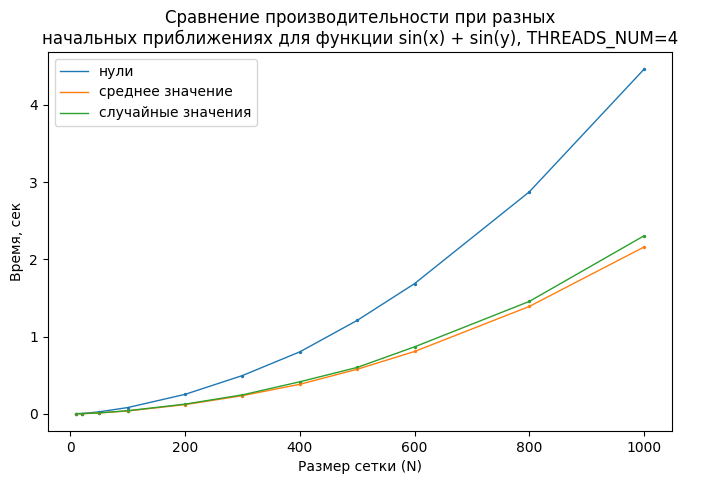
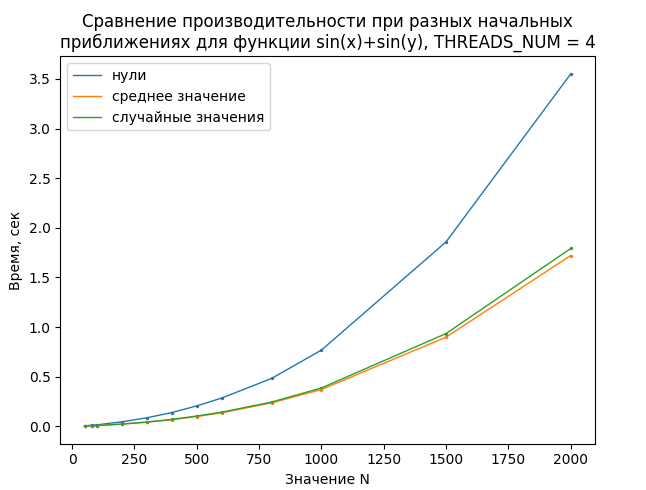
Refactor report

diff --git a/work1/README.md b/work1/README.md
@@ -5,23 +5,21 @@
 * Процессор - 11th Gen Intel® Core™ i5-11500 @ 2.70GHz (6 ядер);
 * Оперативная память - 16ГБ;
 * Операционная система - Ubuntu 22.04.4 LTS;
-* Версия gcc - 11.4.0.
+* Версия gcc - 11.4.0;
+* Версия OpenMP - 4.5.
 
 Под временем работы алгоритма понимается время работы метода `calculate_approximation()`, таким образом не учитывается
-время, которое тратися на выделение памяти и инициализацию функции начальным приближением.
+время, которое тратися на выделение памяти и инициализацию функции начальным приближением. Все измерения проводились с установленным флагом оптимизации -O2.
 
-Для вычисления ошибки аппроксимации использовалась формула:
-$$e=\dfrac 1 {N^2} \displaystyle\sum_{i = 1}^N\sum_{j = 1}^N \dfrac {\lvert u(i,j)- g(ih, jh)\rvert} {\lvert g(ih,jh)
-\rvert}, $$    
-где $N$ - количество неграничных узлов в сетке, $h =\frac {1} {N+1}$, $g$ - функция, которую мы приближаем, $u(i,j)$ -
-значение получившейся функции в узле $(i,j)$. Для визуализации результатов в виде графиков использовался python версии
+Для визуализации результатов в виде графиков использовался python версии
 3.10.12 и библиотеки, описанные
 в [requirements.txt](https://github.com/aartdem/comp-math/blob/main/work1/requirements.txt)
 
+Для оценки полученных значений времени работы использовался доверительный интервал 95%.
 ## Начальное приближение
 
-Чтобы понять, какое выбрать начальное приближение, было проведено несколько измерений. Все измерения проводились для
-$eps=10^{-3}$, с размером блока = 32 и на четрырех потоках. Основная цель - понять, зависит ли время работы алгоритма от
+Все измерения проводились для $eps=10^{-3}$, с размером блока = 32 и на четрырех потоках.
+Основной целью было понять, зависит ли время работы алгоритма от
 начального приближения, и если зависит, то как оптимально подобрать начальное приближение для данной функции.
 Исследовалось 3 способа инициализации начального приближения для каждой клетки:
 
@@ -31,15 +29,61 @@ $eps=10^{-3}$, с размером блока = 32 и на четрырех по
 
 где $G$ - множество значений функции в граничных точках.
 
-Итак, было проведено четыре эксперимента, результаты отражены на графиках:
+Для каждого эксперимента было проведено 20 запусков, были рассмотрены 4 разные функции.
+Функции были подобраны так, чтобы у них различались области значений и скорости роста на множестве $[0;1]^2$.
+Результаты отражены на таблицах и графиках (точка на графике является средним значением по всем запускам):
 
+
+<details>
+  <summary> $sin(x) + sin(y)$ </summary>
 ![](https://github.com/aartdem/comp-math/blob/main/work1/imgs/init0.png)
+
+|                    |        50        |        80        |       100        |       200        |       300        |       400        |       500        |       600        |       800        |       1000       |       1500       |       2000       |
+|--------------------|------------------|------------------|------------------|------------------|------------------|------------------|------------------|------------------|------------------|------------------|------------------|------------------|
+|        нули        | $0.004\pm 0.004$ | $0.010\pm 0.010$ | $0.014\pm 0.014$ | $0.044\pm 0.045$ | $0.085\pm 0.086$ | $0.137\pm 0.138$ | $0.205\pm 0.206$ | $0.283\pm 0.285$ | $0.481\pm 0.482$ | $0.767\pm 0.768$ | $1.847\pm 1.869$ | $3.544\pm 3.557$ |
+|  среднее значение  | $0.002\pm 0.002$ | $0.004\pm 0.004$ | $0.006\pm 0.006$ | $0.021\pm 0.021$ | $0.040\pm 0.041$ | $0.065\pm 0.065$ | $0.097\pm 0.098$ | $0.135\pm 0.136$ | $0.230\pm 0.240$ | $0.370\pm 0.371$ | $0.896\pm 0.899$ | $1.719\pm 1.723$ |
+| случайные значения | $0.002\pm 0.002$ | $0.004\pm 0.005$ | $0.007\pm 0.007$ | $0.022\pm 0.022$ | $0.042\pm 0.043$ | $0.068\pm 0.070$ | $0.102\pm 0.104$ | $0.140\pm 0.143$ | $0.241\pm 0.246$ | $0.383\pm 0.389$ | $0.924\pm 0.944$ | $1.778\pm 1.805$ |
+
+</details>
+
+<details>
+  <summary> $x^6+y^6$ </summary>
 ![](https://github.com/aartdem/comp-math/blob/main/work1/imgs/init1.png)
+
+|                    |        50        |        80        |       100        |       200        |       300        |       400        |       500        |       600        |       800        |       1000       |       1500       |       2000       |
+|--------------------|------------------|------------------|------------------|------------------|------------------|------------------|------------------|------------------|------------------|------------------|------------------|------------------|
+|        нули        | $0.001\pm 0.001$ | $0.004\pm 0.004$ | $0.007\pm 0.007$ | $0.032\pm 0.032$ | $0.071\pm 0.071$ | $0.124\pm 0.124$ | $0.194\pm 0.195$ | $0.279\pm 0.280$ | $0.498\pm 0.499$ | $0.811\pm 0.813$ | $2.028\pm 2.032$ | $3.971\pm 3.982$ |
+|  среднее значение  | $0.003\pm 0.003$ | $0.004\pm 0.004$ | $0.006\pm 0.006$ | $0.019\pm 0.019$ | $0.044\pm 0.045$ | $0.079\pm 0.079$ | $0.126\pm 0.126$ | $0.182\pm 0.182$ | $0.327\pm 0.328$ | $0.541\pm 0.542$ | $1.357\pm 1.361$ | $2.665\pm 2.685$ |
+| случайные значения | $0.004\pm 0.004$ | $0.007\pm 0.008$ | $0.009\pm 0.009$ | $0.026\pm 0.027$ | $0.050\pm 0.051$ | $0.078\pm 0.080$ | $0.116\pm 0.118$ | $0.160\pm 0.164$ | $0.271\pm 0.276$ | $0.429\pm 0.437$ | $1.042\pm 1.060$ | $1.992\pm 2.022$ |
+
+</details>
+
+<details>
+  <summary> $/dfrac 1 {sin(x+y+0.1)}$ </summary>
 ![](https://github.com/aartdem/comp-math/blob/main/work1/imgs/init2.png)
+
+|                    |        50        |        80        |       100        |       200        |       300        |       400        |       500        |       600        |       800        |       1000       |
+|--------------------|------------------|------------------|------------------|------------------|------------------|------------------|------------------|------------------|------------------|------------------|
+|        нули        | $0.005\pm 0.005$ | $0.014\pm 0.014$ | $0.020\pm 0.020$ | $0.079\pm 0.079$ | $0.181\pm 0.181$ | $0.326\pm 0.327$ | $0.534\pm 0.535$ | $0.791\pm 0.792$ | $1.495\pm 1.496$ | $2.563\pm 2.564$ |
+|  среднее значение  | $0.003\pm 0.003$ | $0.006\pm 0.006$ | $0.009\pm 0.009$ | $0.046\pm 0.047$ | $0.117\pm 0.117$ | $0.221\pm 0.222$ | $0.375\pm 0.377$ | $0.567\pm 0.568$ | $1.105\pm 1.106$ | $1.929\pm 1.933$ |
+| случайные значения | $0.008\pm 0.008$ | $0.027\pm 0.028$ | $0.048\pm 0.049$ | $0.126\pm 0.128$ | $0.234\pm 0.236$ | $0.369\pm 0.372$ | $0.546\pm 0.552$ | $0.751\pm 0.758$ | $1.267\pm 1.276$ | $1.998\pm 2.012$ |
+
+</details>
+
+<details>
+  <summary> $e^(2x+2y)$ </summary>
 ![](https://github.com/aartdem/comp-math/blob/main/work1/imgs/init3.png)
 
+|                    |        50        |        80        |       100        |       200        |       300        |       400        |       500        |       600        |       800        |        1000        |
+|--------------------|------------------|------------------|------------------|------------------|------------------|------------------|------------------|------------------|------------------|--------------------|
+|        нули        | $0.009\pm 0.009$ | $0.036\pm 0.037$ | $0.068\pm 0.068$ | $0.410\pm 0.410$ | $1.016\pm 1.018$ | $1.917\pm 1.928$ | $3.254\pm 3.255$ | $4.918\pm 4.920$ | $9.493\pm 9.545$ | $16.358\pm 16.399$ |
+|  среднее значение  | $0.007\pm 0.008$ | $0.028\pm 0.028$ | $0.051\pm 0.051$ | $0.307\pm 0.307$ | $0.655\pm 0.656$ | $1.227\pm 1.228$ | $2.154\pm 2.155$ | $3.322\pm 3.324$ | $6.582\pm 6.600$ | $11.575\pm 11.582$ |
+| случайные значения | $0.011\pm 0.011$ | $0.045\pm 0.045$ | $0.087\pm 0.088$ | $0.625\pm 0.628$ | $1.595\pm 1.605$ | $2.379\pm 2.390$ | $3.258\pm 3.274$ | $4.428\pm 4.444$ | $7.460\pm 7.489$ | $11.816\pm 11.857$ |
+
+</details>
+
 Оказалось, что ни для одной из рассмотренных функций неоптимально заполнять первое приближение нулями. При этом для
-функций $x^2-y$ и $x^6 - y^6$ оптимальнее оказались случайные значения, а для $f(x,y)=1/sin(x+y+0.1)$ - средние.
+функций TODO:delete$x^2-y$ и $x^6 - y^6$ оптимальнее оказались случайные значения, а для $f(x,y)=1/sin(x+y+0.1)$ - средние.
 Это вызвано тем, что на множестве $[0;1]^2$ функция $f(x,y)$ сильно меняется, например $f(0;0)\approx 10, \ f(0.2;0.2)
 \approx 2$ (Эффект будет более заметным, если уменьшить константу 0.1 в знаменателе). При этом значения, близкие к 10,
 принимает
@@ -66,6 +110,12 @@ $eps=10^{-3}$, с размером блока = 32 и на четрырех по
 Для данной функции размер блока заметнее влияет на производительность при увеличении N, но эти изменения малы по сравнению с самим временем работы. Даже при $n=1500$ явной зависимости установлено не было, что свидетельствует о том, что различия в значениях были вызваны погрешностью измерений.
 
 ## Ошибки аппроксимации
+
+Для вычисления ошибки аппроксимации использовалась формула:
+$$e=\dfrac 1 {N^2} \displaystyle\sum_{i = 1}^N\sum_{j = 1}^N \dfrac {\lvert u(i,j)- g(ih, jh)\rvert} {\lvert g(ih,jh)
+\rvert}, $$    
+где $N$ - количество неграничных узлов в сетке, $h =\frac {1} {N+1}$, $g$ - функция, которую мы приближаем, $u(i,j)$ -
+значение получившейся функции в узле $(i,j)$.
 
 При измерениях было установлено, что при уменьшении $eps$ достигалась лучшая точность. Это логично, так как алгоритм итерационный и при меньшем значении $eps$ он сделает больше итераций приближения функции:
 
